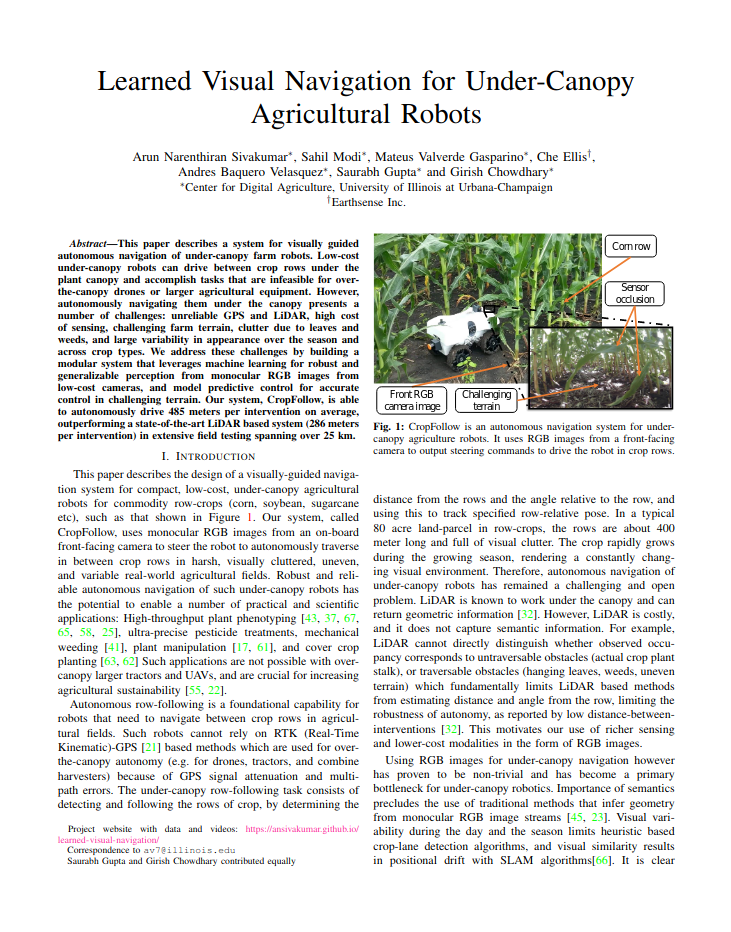
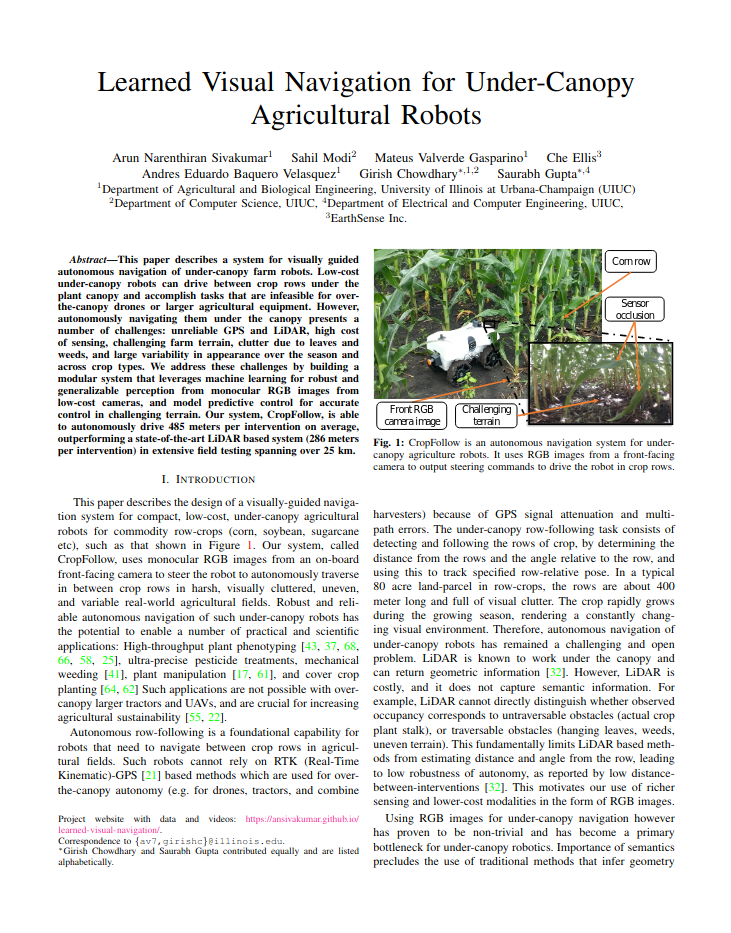
changes

diff --git a/index.html b/index.html
@@ -166,7 +166,7 @@
   <br />
 
 
-  <table align="center" width="1000px" style='margin-bottom: 10px'>
+  <table align="center" width="1000px" style='margin-bottom: 1px'>
     <tbody>
       <tr>
         <td align="center" width="190px">
@@ -197,26 +197,28 @@
     </tbody>
   </table>
 
-  <table align="center" width="800px" style='margin-bottom: 10px'>
+  <table align="center" width="800px" style='margin-bottom: 1px'>
     <tbody>
       <tr>
-        <td align="center" width="200px">
+        <td align="center" width="300px">
           <center>
-            <span style="font-size:22px">Andres Baquero Velasquez<sup>1</sup></span>
+            <span style="font-size:22px">Andres Eduardo Baquero Velasquez<sup>1</sup></span>
           </center>
-        </td>        
-
+        </td> 
+        
         <td align="center" width="150px">
           <center>
-            <span style="font-size:22px">Saurabh Gupta<sup>1</sup></span>
+            <span style="font-size:22px">Girish Chowdhary<sup>1*</sup></span>
           </center>
         </td>
 
         <td align="center" width="150px">
           <center>
-            <span style="font-size:22px">Girish Chowdhary<sup>1</sup></span>
+            <span style="font-size:22px">Saurabh Gupta<sup>1*</sup></span>
           </center>
         </td>
+
+        
       </tr>
 
 
@@ -270,18 +272,18 @@
     </tbody>
   </table>
 
-  <table align="center" width="700px" style='margin-bottom: 5px'>
+  <table align="center" width="700px" style='margin-bottom: 1px'>
     <tr>
       <td align="center" width="230px">
         <center>
-          <span style="font-size:17px; font-weight: 200;"><sup>1</sup> Center for Digital Agriculture, University of Illinois at Urbana-Champaign</span>
+          <span style="font-size:17px; font-weight: 200;"><sup>1</sup> University of Illinois at Urbana-Champaign</span>
        
         </center>
       </td>
       
     </tr>
   </table>
-  <table align="center" width="700px" style='margin-bottom: 10px'>
+  <table align="center" width="700px" style='margin-bottom: 1px'>
     <tr>
       <td align="center" width="230px">
         <center>
@@ -292,6 +294,18 @@
       
     </tr>
   </table>
+  <table align="center" width="700px" style='margin-bottom: 10px'>
+    <tr>
+      <td align="center" width="230px">
+        <center>
+          <span style="font-size:15px; font-weight: 200;"><sup>*</sup> equal contribution </span>
+       
+        </center>
+      </td>
+      
+    </tr>
+  </table>
+
 
 
   <table align="center" width="700px" style='margin-bottom: 10px'>
@@ -307,9 +321,9 @@
   <table align="center" width="700px">
           <tbody><tr>
             <td align="center" width="10px"><center><span style="font-size:24px"><a href="https://github.com/ansivakumar/learned-visual-navigation">Paper</a></span></center></td>
-            <td align="center" width="100px"><center><span style="font-size:24px"><a href="https://github.com/ansivakumar/learned-visual-navigation">Data</a></span></center></td-->
-            <td align=center width=100px><center><span style="font-size:24px"><a href="https://github.com/ansivakumar/learned-visual-navigation">Code for ground truth label</a></span></center></td>
-            <td align="center" width="100px"><center><span style="font-size:24px"><a href="https://github.com/ansivakumar/learned-visual-navigation">Slides (PDF)</a></span></center></td>
+            <td align="center" width="50px"><center><span style="font-size:24px"><a href="https://github.com/ansivakumar/learned-visual-navigation">Data</a></span></center></td-->
+            <!-- <td align=center width=100px><center><span style="font-size:24px"><a href="https://github.com/ansivakumar/learned-visual-navigation">Code for ground truth label</a></span></center></td> -->
+            <td align="center" width="50px"><center><span style="font-size:24px"><a href="https://github.com/ansivakumar/learned-visual-navigation">Slides (PDF)</a></span></center></td>
             
           </tr><tr>
       </tr></tbody></table>
@@ -321,7 +335,7 @@
   <table align="center" width="300px" style="padding-top: 25px">
     <tbody>
       <tr>
-        <td align="center" width="300px"><iframe width="700" height="400" src="https://www.youtube.com/embed/O4w5jC29-aY" frameborder="0" allow="accelerometer; autoplay; encrypted-media; gyroscope; picture-in-picture" allowfullscreen></iframe></iframe>
+        <td align="center" width="300px"><iframe width="560" height="315" src="https://www.youtube.com/embed/B8uucfzb0P4" title="YouTube video player" frameborder="0" allow="accelerometer; autoplay; clipboard-write; encrypted-media; gyroscope; picture-in-picture" allowfullscreen></iframe>
         </td>
       </tr>
     </tbody>
@@ -398,12 +412,12 @@
         </td>
 
         <td width="450px" align="left">
-          <span style="font-size:6px;">&nbsp;<br /></span> <span style="font-size:15pt">Arun Narenthiran Sivakumar, Sahil Modi, Mateus Valverde Gasparino, Che Ellis, Andres Baquero Velasquez, Saurabh Gupta, Girish Chowdhary. <br/>Learned Visual Navigation for Under-Canopy Agricultural Robots. <br/>RSS 2021.</span></p>
+          <span style="font-size:6px;">&nbsp;<br /></span> <span style="font-size:15pt">Arun Narenthiran Sivakumar, Sahil Modi, Mateus Valverde Gasparino, Che Ellis, Andres Eduardo Baquero Velasquez, Girish Chowdhary, Saurabh Gupta. <br/>Learned Visual Navigation for Under-Canopy Agricultural Robots. <br/>RSS 2021.</span></p>
           <div class="paper" id="assemblies19_bib">
             <pre xml:space="preserve" style="display: block; font-size: 12px">
 @inproceedings{sivakumar2021learned,
   author = "Sivakumar, Arun Narenthiran and Modi, Sahil and Gasparino, Mateus Valverde and 
-  Ellis, Che and Velasquez, Andres Baquero and Gupta, Saurabh and Chowdhary, Girish",
+  Ellis, Che and Velasquez, Andres Eduardo Baquero and Chowdhary, Girish and Gupta, Saurabh",
   title = "Learned Visual Navigation for Under-Canopy Agricultural Robots",
   booktitle = "Robotics: Science and Systems",
   year = "2021"
@@ -422,7 +436,7 @@
 <table align="center" width="800px">
       <tbody><tr><td width="800px"><left>
       <center><h1>Acknowledgements</h1></center>
-      This paper was supported in part by NSF STTR #1820332, USDA/NSF CPS project #2018-67007-28379, USDA/NSF AIFARMS National AI Institute USDA #020-67021-32799/project accession no.1024178, NSF IIS #2007035, and DARPA Machine Common Sense. We thank Earthsense Inc. for the robots used in this work and the Illinois Autonomous Farm facility for data collection and field validation of CropFollow. We thank Vitor Akihiro H. Higuti and Sri Theja Vuppala for their help in integration of CropFollow on the robot and field validation.
+      This paper was supported in part by NSF STTR #1820332, USDA/NSF CPS project #2018-67007-28379, USDA/NSF AIFARMS National AI Institute USDA #020-67021-32799/project accession no.1024178, NSF IIS #2007035, and DARPA Machine Common Sense. We thank Earthsense Inc. for the robots used in this work and we thank the Department of Agricultural and Biological Engineering and Center for Digital Agriculture (CDA) at UIUC for the Illinois Autonomous Farm (IAF) facility used for data collection and field validation of CropFollow. We thank Vitor Akihiro H. Higuti and Sri Theja Vuppala for their help in integration of CropFollow on the robot and field validation.
           Website template from <a href="https://matthewchang.github.io/value-learning-from-videos/">here</a>. <br>
       </left></td></tr>
     </tbody></table>
